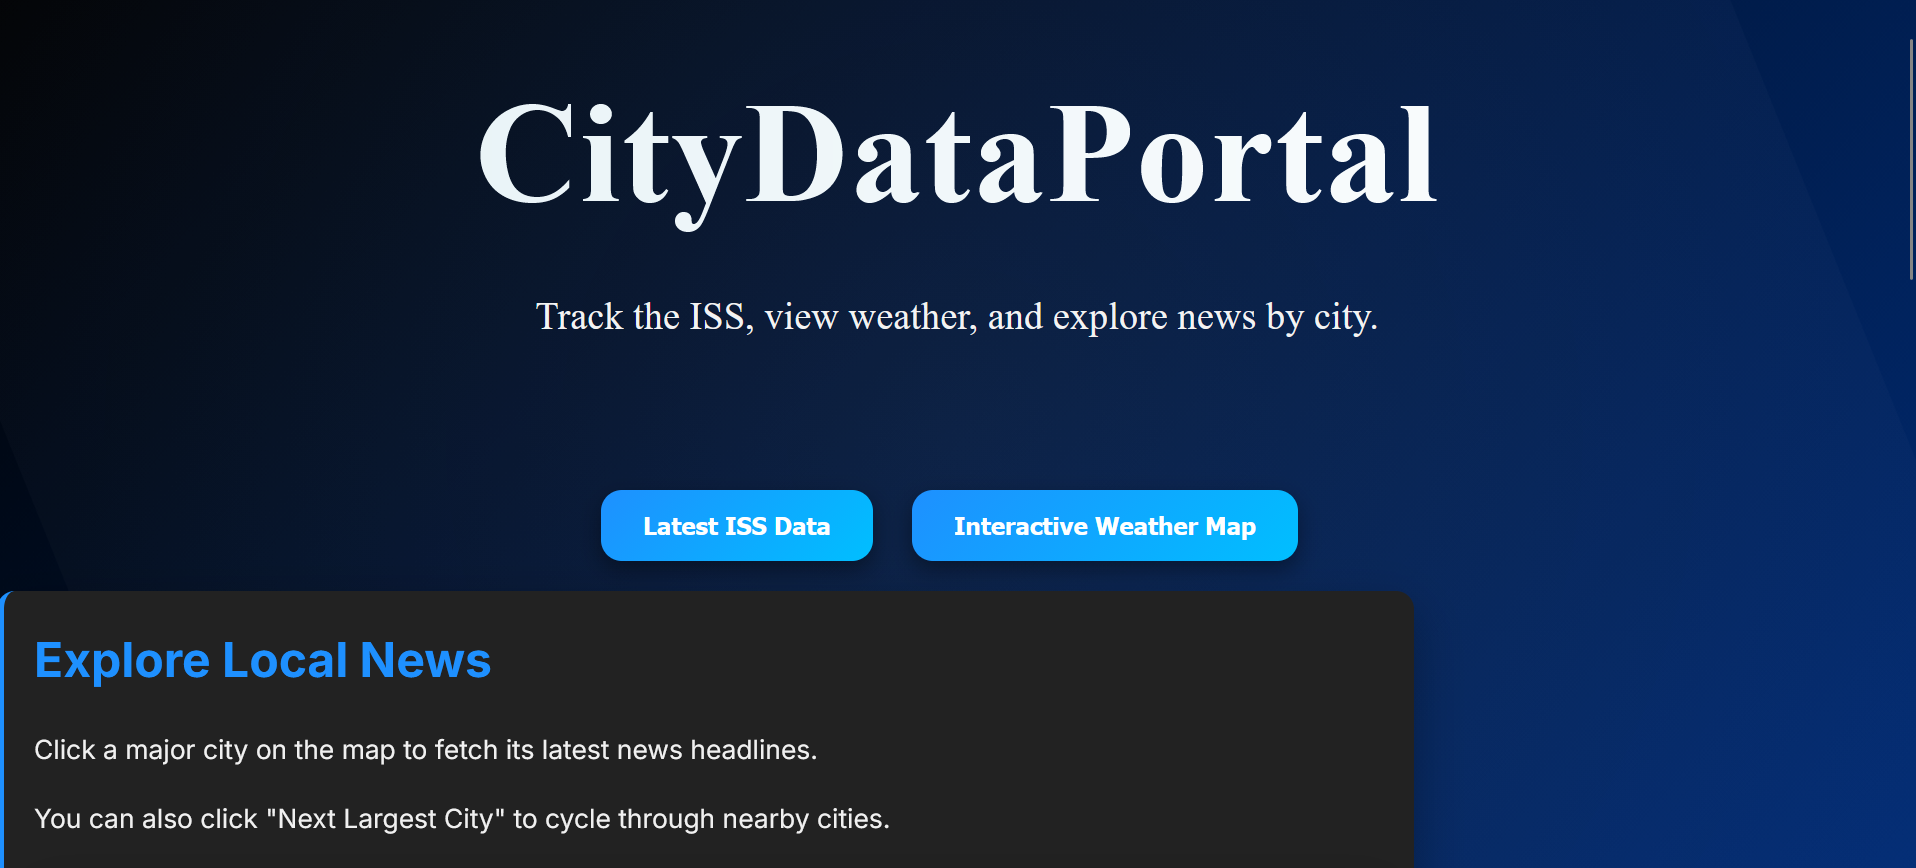
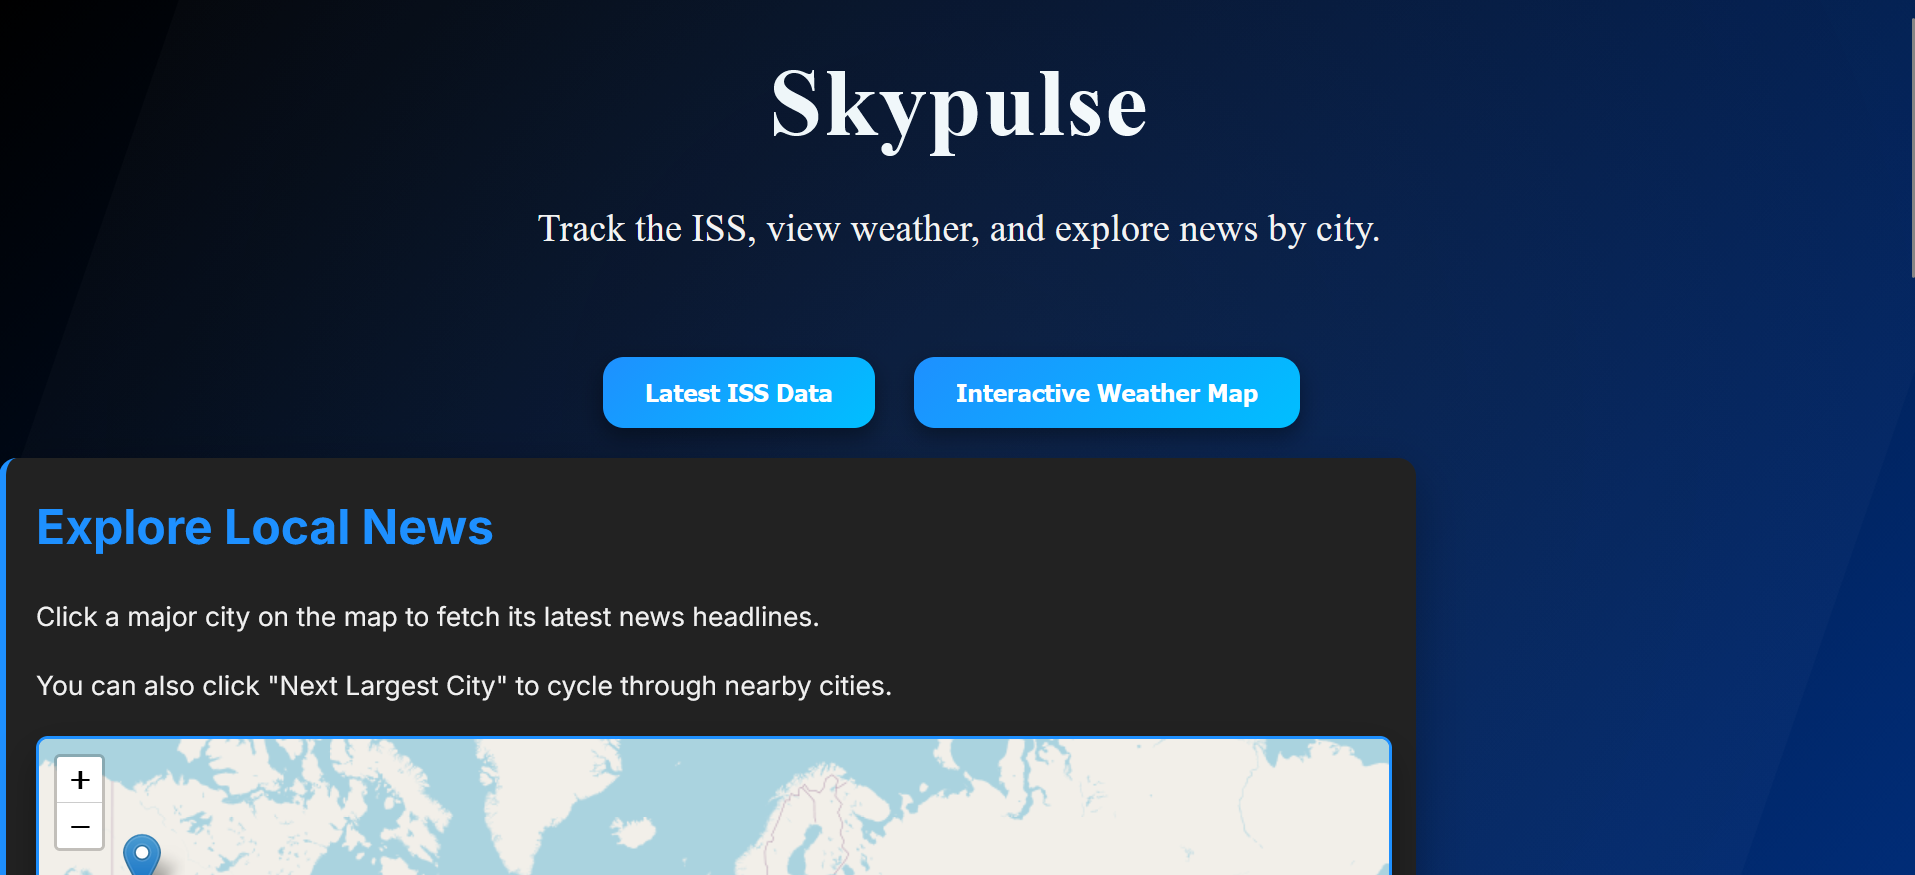
push

diff --git a/static/styles.css b/static/styles.css
@@ -34,7 +34,7 @@ body::before {
 /* ---------- Header ---------- */
 header {
     text-align: center;
-    padding: 80px 20px 50px 20px;
+    padding: 20px 20px 20px 20px;
     color: #fff;
     position: relative;
     z-index: 1;
@@ -42,7 +42,7 @@ header {
 
 header h1 {
     font-family: 'Times New Roman', sans-serif; 
-    font-size: 6em;
+    font-size: 4em;
     font-weight: 900;
     letter-spacing: 1px;
     margin: 0;
@@ -51,6 +51,13 @@ header h1 {
     background: linear-gradient(90deg, #e3f0f5, #ffffff);
     -webkit-background-clip: text;
     -webkit-text-fill-color: transparent;
+}
+
+header h2 {
+    font-family: 'Times New Roman', serif;
+    font-size: 2.5em;
+    margin-top: 5px;
+    color: #fcfcfd;
 }
 
 header h1 span {

diff --git a/templates/home.html b/templates/home.html
@@ -2,7 +2,7 @@
 <html lang="en">
 <head>
     <meta charset="UTF-8">
-    <title>CityDataPortal Dashboard</title>
+    <title>Skypulse Dashboard</title>
     <link rel="stylesheet" href="{{ url_for('static', filename='styles.css') }}">
     
     <!-- Leaflet CSS/JS -->
@@ -29,7 +29,7 @@
 
 <!-- Header -->
 <header>
-    <h1>CityDataPortal</h1>
+    <h1>Skypulse</h1>
     <p>Track the ISS, view weather, and explore news by city.</p>
 </header>
 
